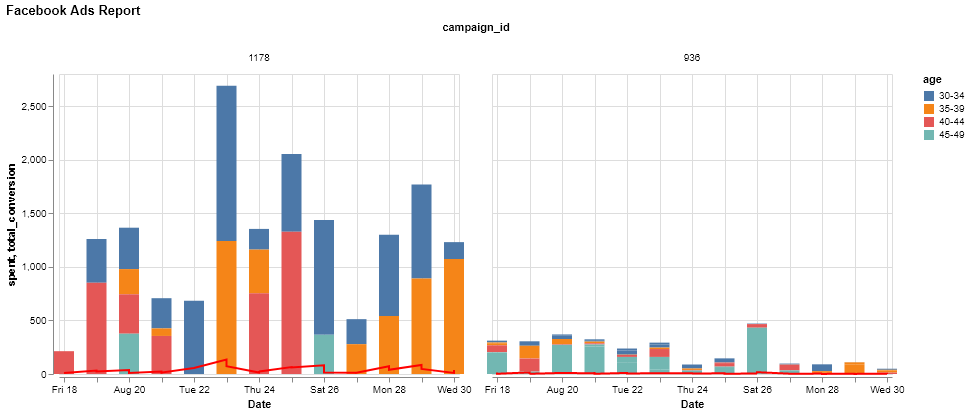
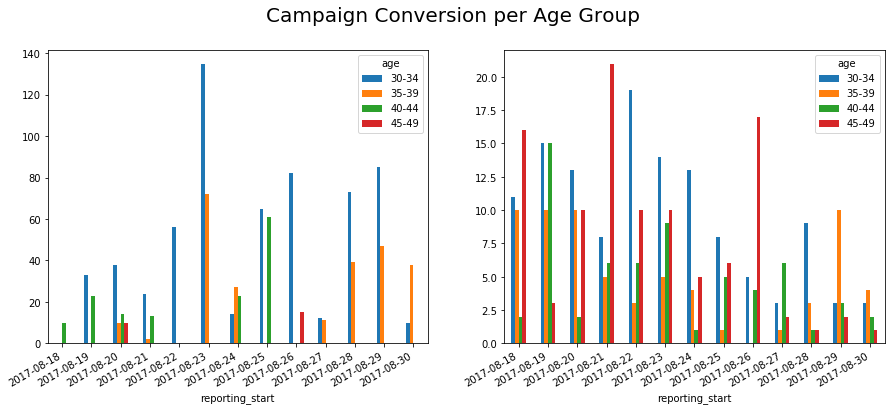
change to matplotlib

diff --git a/send_email.py b/send_email.py
@@ -7,14 +7,14 @@ import os
 from datetime import date
 
 import pandas as pd
-import altair as alt
+import matplotlib.pyplot as plt
+import matplotlib.dates as mdates
 
 import fire
  
 def extract_contacts(contact_file):
   """
-  Return two lists names, emails containing names and email addresses
-  read from a file specified by filename.
+  Return two lists contacts, containing names and email addresses
   """
   names = []
   emails = []
@@ -33,7 +33,10 @@ def create_message(template_file):
   return Template(template_content)
 
 def compose_email(template, name, data_file):
-  
+  """   
+  Compose email from template and data
+  // TODO read data once
+  """
   start_date, end_date, total_spent, total_conversion, cpc_1, cpc_2 = extract_summary(data_file)
   composed = template.substitute(
     PERSON_NAME=name,
@@ -49,8 +52,7 @@ def compose_email(template, name, data_file):
 
 def authenticate_account(EMAIL, PASSWORD, SERVER='outlook'):
   """   
-  Return two lists names, emails containing names and email addresses
-  read from a file specified by filename.
+  Authenticate SMTP account for two host: gmail or outlook
   """
   if(SERVER == 'gmail'):
     host = 'smtp.gmail.com'
@@ -68,39 +70,29 @@ def authenticate_account(EMAIL, PASSWORD, SERVER='outlook'):
 
 def create_plot(file_path="data_input/data.csv"):
   """   
-  Fetch data from data source
-  Export a plot
+  Fetch data from data source and export a plot
+  // TODO change plot to pandas matplotlib
   """
   fb = pd.read_csv(file_path, parse_dates=[1,2])
   campaigns = fb[fb['campaign_id'].isin(['936', '1178'])]
   campaigns = campaigns[campaigns.spent > 0]
-  grouped = campaigns.groupby(by=['campaign_id', 'age', 'gender', 'reporting_start'], as_index=False)\
+  grouped = campaigns.groupby(by=['campaign_id', 'age', 'reporting_start'], as_index=False)\
     [['interest1', 'interest2', 'interest3', 'impressions', 'clicks', 'spent', 'total_conversion']].\
     sum()
-  source = grouped
-  base = alt.Chart(source).encode(
-      x=alt.X(
-          'reporting_start:T',
-          axis=alt.Axis(title = 'Date')
-      )
-      
-  )
 
-  bar = base.mark_bar(size=20).encode(
-      y='spent:Q',
-      color='age',
-  )
+  fig = plt.figure(1, figsize=(15,6))
 
-  line = base.mark_line(color='red').encode(
-      y='total_conversion:Q'
-  )
+  for i, campaign in enumerate(grouped.campaign_id.unique()):
+      plt.subplot(1, 2, i+1)
+      df = grouped[grouped.campaign_id == campaign].loc[:,['age', 'reporting_start', 'total_conversion']]
+      df.reporting_start = df.reporting_start.dt.date
+      df.pivot(index='reporting_start', columns='age', values='total_conversion').fillna(0).plot.bar(ax=plt.gca())
 
-  chart = alt.layer(bar, line, data=source).facet(
-      column='campaign_id',
-      title='Facebook Ads Report'
-  )
+  fig.suptitle('Campaign Conversion per Age Group', fontsize=20)
+  fig.autofmt_xdate()
+
   imagename = 'plot/'+date.today().strftime(format="%d %b %Y")+'.png'
-  chart.save(imagename)
+  fig.savefig(imagename)
   return(imagename)
 
   
@@ -148,7 +140,7 @@ def main(subject, \
     msg['From']=os.environ['EMAIL_ADDRESS']
     msg['To']=email
     msg['Subject']=subject
-    
+    print('SUBJECT: '+subject)
     # add in the message body
     msg.attach(MIMEText(message, 'plain'))
 
@@ -157,6 +149,7 @@ def main(subject, \
     img_data = open(image_name, 'rb').read()
     image = MIMEImage(img_data, name=os.path.basename(image_name))
     msg.attach(image)
+    
     
     # send the message via the server set up earlier.
     s.send_message(msg)
